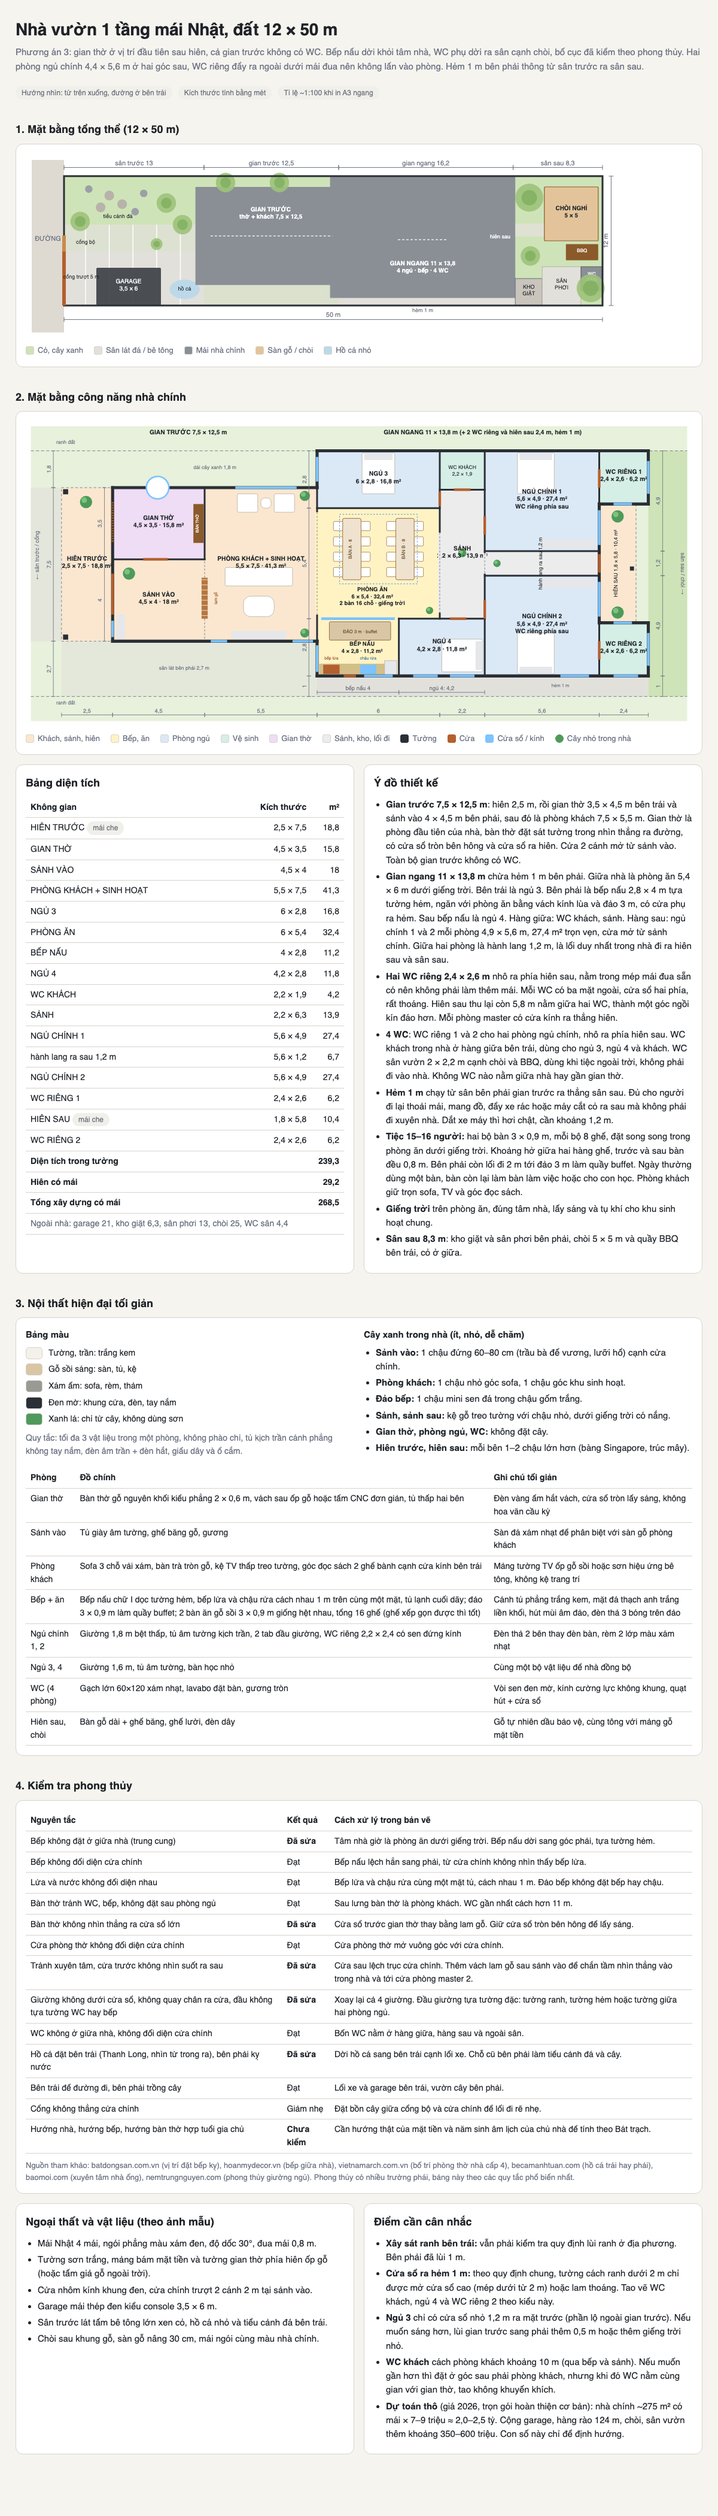
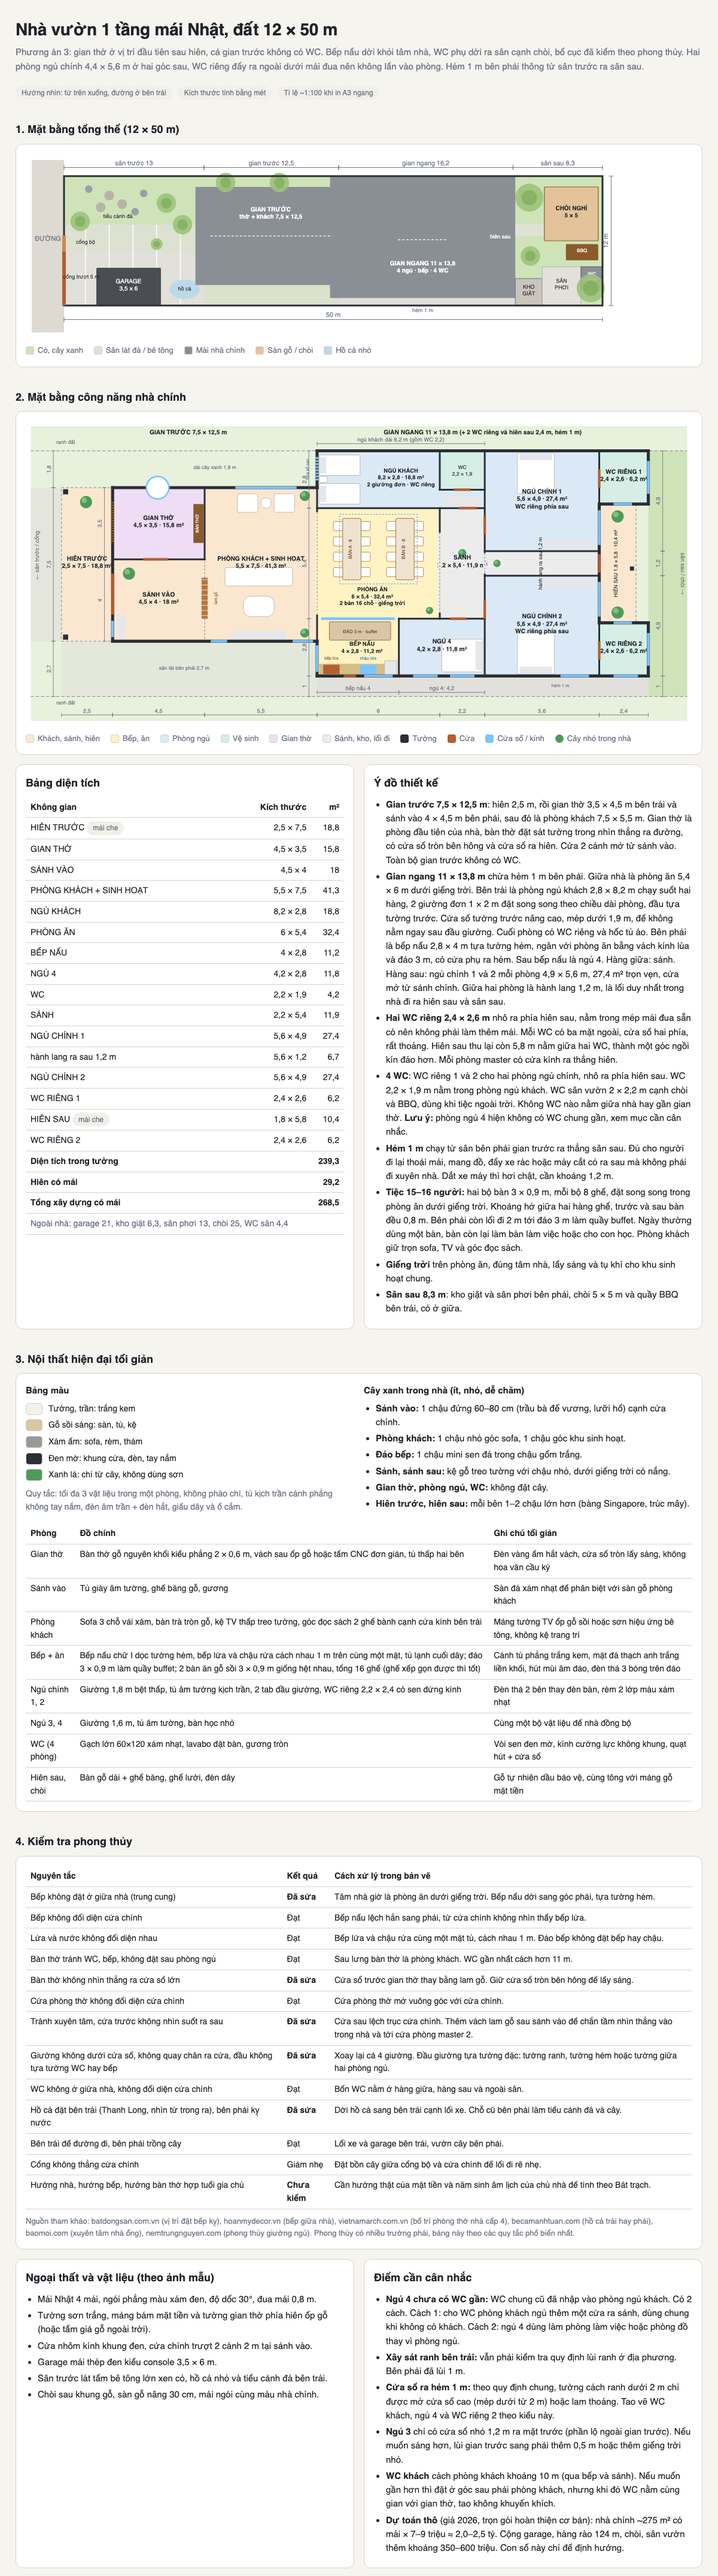
Phòng ngủ khách dài 8,2 m, 2 giường đơn, WC trong phòng

Changed region(s): [[0.0308, 0.0, 0.9558, 0.9981]]

diff --git a/mat-bang-nha-12x50.html b/mat-bang-nha-12x50.html
@@ -82,9 +82,9 @@
       <h2 style="margin-top:0">Ý đồ thiết kế</h2>
       <ul>
         <li><b>Gian trước 7,5 × 12,5 m</b>: hiên 2,5 m, rồi gian thờ 3,5 × 4,5 m bên trái và sảnh vào 4 × 4,5 m bên phải, sau đó là phòng khách 7,5 × 5,5 m. Gian thờ là phòng đầu tiên của nhà, bàn thờ đặt sát tường trong nhìn thẳng ra đường, có cửa sổ tròn bên hông và cửa sổ ra hiên. Cửa 2 cánh mở từ sảnh vào. Toàn bộ gian trước không có WC.</li>
-        <li><b>Gian ngang 11 × 13,8 m</b> chừa hẻm 1 m bên phải. Giữa nhà là phòng ăn 5,4 × 6 m dưới giếng trời. Bên trái là ngủ 3. Bên phải là bếp nấu 2,8 × 4 m tựa tường hẻm, ngăn với phòng ăn bằng vách kính lùa và đảo 3 m, có cửa phụ ra hẻm. Sau bếp nấu là ngủ 4. Hàng giữa: WC khách, sảnh. Hàng sau: ngủ chính 1 và 2 mỗi phòng 4,9 × 5,6 m, 27,4 m² trọn vẹn, cửa mở từ sảnh chính. Giữa hai phòng là hành lang 1,2 m, là lối duy nhất trong nhà đi ra hiên sau và sân sau.</li>
+        <li><b>Gian ngang 11 × 13,8 m</b> chừa hẻm 1 m bên phải. Giữa nhà là phòng ăn 5,4 × 6 m dưới giếng trời. Bên trái là phòng ngủ khách 2,8 × 8,2 m chạy suốt hai hàng, 2 giường đơn 1 × 2 m đặt song song theo chiều dài phòng, đầu tựa tường trước. Cửa sổ tường trước nâng cao, mép dưới 1,9 m, để không nằm ngay sau đầu giường. Cuối phòng có WC riêng và hốc tủ áo. Bên phải là bếp nấu 2,8 × 4 m tựa tường hẻm, ngăn với phòng ăn bằng vách kính lùa và đảo 3 m, có cửa phụ ra hẻm. Sau bếp nấu là ngủ 4. Hàng giữa: sảnh. Hàng sau: ngủ chính 1 và 2 mỗi phòng 4,9 × 5,6 m, 27,4 m² trọn vẹn, cửa mở từ sảnh chính. Giữa hai phòng là hành lang 1,2 m, là lối duy nhất trong nhà đi ra hiên sau và sân sau.</li>
         <li><b>Hai WC riêng 2,4 × 2,6 m</b> nhô ra phía hiên sau, nằm trong mép mái đua sẵn có nên không phải làm thêm mái. Mỗi WC có ba mặt ngoài, cửa sổ hai phía, rất thoáng. Hiên sau thu lại còn 5,8 m nằm giữa hai WC, thành một góc ngồi kín đáo hơn. Mỗi phòng master có cửa kính ra thẳng hiên.</li>
-        <li><b>4 WC</b>: WC riêng 1 và 2 cho hai phòng ngủ chính, nhô ra phía hiên sau. WC khách trong nhà ở hàng giữa bên trái, dùng cho ngủ 3, ngủ 4 và khách. WC sân vườn 2 × 2,2 m cạnh chòi và BBQ, dùng khi tiệc ngoài trời, không phải đi vào nhà. Không WC nào nằm giữa nhà hay gần gian thờ.</li>
+        <li><b>4 WC</b>: WC riêng 1 và 2 cho hai phòng ngủ chính, nhô ra phía hiên sau. WC 2,2 × 1,9 m nằm trong phòng ngủ khách. WC sân vườn 2 × 2,2 m cạnh chòi và BBQ, dùng khi tiệc ngoài trời. Không WC nào nằm giữa nhà hay gần gian thờ. <b>Lưu ý:</b> phòng ngủ 4 hiện không có WC chung gần, xem mục cần cân nhắc.</li>
         <li><b>Hẻm 1 m</b> chạy từ sân bên phải gian trước ra thẳng sân sau. Đủ cho người đi lại thoải mái, mang đồ, đẩy xe rác hoặc máy cắt cỏ ra sau mà không phải đi xuyên nhà. Dắt xe máy thì hơi chật, cần khoảng 1,2 m.</li>
         <li><b>Tiệc 15–16 người:</b> hai bộ bàn 3 × 0,9 m, mỗi bộ 8 ghế, đặt song song trong phòng ăn dưới giếng trời. Khoảng hở giữa hai hàng ghế, trước và sau bàn đều 0,8 m. Bên phải còn lối đi 2 m tới đảo 3 m làm quầy buffet. Ngày thường dùng một bàn, bàn còn lại làm bàn làm việc hoặc cho con học. Phòng khách giữ trọn sofa, TV và góc đọc sách.</li>
         <li><b>Giếng trời</b> trên phòng ăn, đúng tâm nhà, lấy sáng và tụ khí cho khu sinh hoạt chung.</li>
@@ -172,6 +172,7 @@
     <div class="card">
       <h2 style="margin-top:0">Điểm cần cân nhắc</h2>
       <ul>
+        <li><b>Ngủ 4 chưa có WC gần:</b> WC chung cũ đã nhập vào phòng ngủ khách. Có 2 cách. Cách 1: cho WC phòng khách ngủ thêm một cửa ra sảnh, dùng chung khi không có khách. Cách 2: ngủ 4 dùng làm phòng làm việc hoặc phòng đồ thay vì phòng ngủ.</li>
         <li><b>Xây sát ranh bên trái:</b> vẫn phải kiểm tra quy định lùi ranh ở địa phương. Bên phải đã lùi 1 m.</li>
         <li><b>Cửa sổ ra hẻm 1 m:</b> theo quy định chung, tường cách ranh dưới 2 m chỉ được mở cửa sổ cao (mép dưới từ 2 m) hoặc lam thoáng. Tao vẽ WC khách, ngủ 4 và WC riêng 2 theo kiểu này.</li>
         <li><b>Ngủ 3</b> chỉ có cửa sổ nhỏ 1,2 m ra mặt trước (phần lộ ngoài gian trước). Nếu muốn sáng hơn, lùi gian trước sang phải thêm 0,5 m hoặc thêm giếng trời nhỏ.</li>
@@ -269,12 +270,12 @@ const rooms=[
   {n:'GIAN THỜ',d:[15.5,20],w:[1.8,5.3],f:'--c-worship'},
   {n:'SẢNH VÀO',d:[15.5,20],w:[5.3,9.3],f:'--c-living'},
   {n:'PHÒNG KHÁCH + SINH HOẠT',d:[20,25.5],w:[1.8,9.3],f:'--c-living'},
-  {n:'NGỦ 3',d:[25.5,31.5],w:[0,2.8],f:'--c-bed'},
+  {n:'NGỦ KHÁCH',d:[25.5,33.7],w:[0,2.8],f:'--c-bed',minus:4.18,sub:'2 giường đơn · WC riêng',lp:[29.6,1.4]},
   {n:'PHÒNG ĂN',d:[25.5,31.5],w:[2.8,8.2],f:'--c-kitchen',sub:'2 bàn 16 chỗ · giếng trời',lp:[28.2,7.2]},
   {n:'BẾP NẤU',d:[25.5,29.5],w:[8.2,11.0],f:'--c-kitchen',lp:[27.7,9.7]},
   {n:'NGỦ 4',d:[29.5,33.7],w:[8.2,11.0],f:'--c-bed'},
-  {n:'WC KHÁCH',d:[31.5,33.7],w:[0,1.9],f:'--c-wet',small:true,sub2:'2,2 × 1,9'},
-  {n:'SẢNH',d:[31.5,33.7],w:[1.9,8.2],f:'--c-hall'},
+  {n:'WC',d:[31.5,33.7],w:[0,1.9],f:'--c-wet',small:true,sub2:'2,2 × 1,9'},
+  {n:'SẢNH',d:[31.5,33.7],w:[2.8,8.2],f:'--c-hall'},
   {n:'NGỦ CHÍNH 1',d:[33.7,39.3],w:[0,4.9],f:'--c-bed',sub:'WC riêng phía sau'},
   {n:'hành lang ra sau 1,2 m',d:[33.7,39.3],w:[4.9,6.1],f:'--c-hall',small:true,vert:true},
   {n:'NGỦ CHÍNH 2',d:[33.7,39.3],w:[6.1,11.0],f:'--c-bed',sub:'WC riêng phía sau'},
@@ -317,8 +318,8 @@ const rooms=[
   rect(g,m,27.6,28.4,10.45,10.9,{fill:'#7cc4ff'}); label(g,m,28.0,10.2,'chậu rửa',{size:8,fill:'#1d5f8a'});
   rect(g,m,28.8,29.4,10.25,10.95,{fill:'#e5e7eb',stroke:'#b8b3a8'}); 
   rect(g,m,26.1,29.1,8.35,9.25,{fill:'#d9c6a5',stroke:'#8b5a2b','stroke-width':1,rx:2}); label(g,m,27.6,8.9,'ĐẢO 3 m · buffet',{size:9,fill:'#5b3a1a'});
-  function bed(d1,d2,w1,w2,head){rect(g,m,d1,d2,w1,w2,F); const h=0.35; if(head==='w0')rect(g,m,d1+0.1,d2-0.1,w1,w1+h,{fill:'#e5e7eb',rx:2}); if(head==='w1')rect(g,m,d1+0.1,d2-0.1,w2-h,w2,{fill:'#e5e7eb',rx:2}); if(head==='d1')rect(g,m,d2-h,d2,w1+0.1,w2-0.1,{fill:'#e5e7eb',rx:2});}
-  bed(27.7,29.3,0.1,2.1,'w0'); bed(31.6,33.6,9.2,10.8,'d1'); bed(35.3,37.1,0.1,2.1,'w0'); bed(35.3,37.1,8.9,10.9,'w1');
+  function bed(d1,d2,w1,w2,head){rect(g,m,d1,d2,w1,w2,F); const h=0.35; if(head==='w0')rect(g,m,d1+0.1,d2-0.1,w1,w1+h,{fill:'#e5e7eb',rx:2}); if(head==='w1')rect(g,m,d1+0.1,d2-0.1,w2-h,w2,{fill:'#e5e7eb',rx:2}); if(head==='d1')rect(g,m,d2-h,d2,w1+0.1,w2-0.1,{fill:'#e5e7eb',rx:2}); if(head==='ds')rect(g,m,d1,d1+h,w1+0.1,w2-0.1,{fill:'#e5e7eb',rx:2});}
+  bed(25.6,27.6,0.2,1.2,'ds'); bed(25.6,27.6,1.6,2.6,'ds'); rect(g,m,25.6,26.0,1.25,1.55,F); rect(g,m,31.7,33.5,2.2,2.7,{fill:'#e5e7eb',rx:2}); bed(31.6,33.6,9.2,10.8,'d1'); bed(35.3,37.1,0.1,2.1,'w0'); bed(35.3,37.1,8.9,10.9,'w1');
   rect(g,m,36.4,39.1,4.3,4.8,{fill:'#e5e7eb',rx:2}); rect(g,m,36.4,39.1,6.2,6.7,{fill:'#e5e7eb',rx:2}); // tủ áo
   function plant(d,w,r){const cx=m.x(d),cy=m.y(w),R=(r||0.3)*m.S; el('circle',{cx,cy,r:R,fill:'#4f9a5a'},g); el('circle',{cx:cx-R*.3,cy:cy-R*.3,r:R*.45,fill:'#7cc27f'},g);}
   plant(14.2,2.5,0.3); plant(16.3,6.0,0.3); plant(24.9,2.2,0.25); plant(24.9,8.9,0.22); plant(31.0,7.8,0.18); plant(32.6,5.0,0.2); plant(34.3,5.5,0.18); plant(40.2,3.2,0.3); plant(40.2,7.9,0.3);
@@ -345,8 +346,8 @@ const rooms=[
   wall(39.3,2.6,41.7,2.6); wall(41.7,0,41.7,2.6); wall(39.3,8.4,41.7,8.4); wall(41.7,8.4,41.7,11.0);
   wall(15.5,5.3,20,5.3,ti); wall(20,1.8,20,5.3,ti);
   wall(25.5,1.8,25.5,9.3,ti);
-  wall(25.5,2.8,31.5,2.8,ti); wall(29.5,8.2,33.7,8.2,ti); wall(29.5,8.2,29.5,11.0,ti);
-  wall(31.5,0,31.5,8.2,ti);
+  wall(25.5,2.8,33.7,2.8,ti); wall(29.5,8.2,33.7,8.2,ti); wall(29.5,8.2,29.5,11.0,ti);
+  wall(31.5,0,31.5,1.9,ti); wall(31.5,2.8,31.5,8.2,ti);
   wall(31.5,1.9,33.7,1.9,ti);
   wall(33.7,0,33.7,11.0,ti);
   wall(33.7,4.9,39.3,4.9,ti); wall(33.7,6.1,39.3,6.1,ti);
@@ -363,7 +364,7 @@ const rooms=[
   opening(33.7,5.0,33.7,6.0,css('--c-hall'));
   door(15.5,6.0,15.5,8.0);
   door(17,5.3,18.2,5.3);
-  door(31.5,2.0,31.5,2.7); door(32.0,8.2,32.8,8.2);   // ngủ 3, ngủ 4
+  door(32.4,2.8,33.3,2.8); door(32.0,8.2,32.8,8.2);   // ngủ khách, ngủ 4
   door(26.8,11.0,27.4,11.0);                                 // cửa phụ bếp ra hẻm
   win(25.7,8.2,29.3,8.2);                                    // vách kính lùa bếp nấu
   door(32.2,1.9,33.0,1.9);
@@ -375,7 +376,7 @@ const rooms=[
   label(g,m,20.6,7.2,'lam gỗ',{size:8,fill:'#8b5a2b',rot:-90});
   el('circle',{cx:m.x(17.7),cy:m.y(1.8),r:.55*m.S,fill:'#fff',stroke:'#7cc4ff','stroke-width':3},g);
   win(20.3,9.3,21.1,9.3); win(24.3,9.3,25.3,9.3); win(21.5,1.8,24.5,1.8);
-  win(25.5,0.3,25.5,1.5); win(25.5,9.5,25.5,10.8);
+  el('line',{x1:m.x(25.5),y1:m.y(0.3),x2:m.x(25.5),y2:m.y(1.5),stroke:'#7cc4ff','stroke-width':5,'stroke-dasharray':'4 2'},g); label(g,m,25.1,0.9,'cửa sổ cao',{size:8,fill:'#1d5f8a',rot:-90}); win(25.5,9.5,25.5,10.8);
   win(27.8,11.0,29.2,11.0); win(30.2,11.0,31.4,11.0); win(32,11.0,33.2,11.0); win(37.4,11.0,38.8,11.0); win(40.0,11.0,41.2,11.0);
   win(41.7,0.5,41.7,2.1); win(41.7,8.9,41.7,10.5); win(40.0,2.6,40.9,2.6); win(40.0,8.4,40.9,8.4);   // cửa sổ WC riêng
   win(39.3,2.9,39.3,4.6); win(39.3,6.4,39.3,8.1);   // cửa kính master ra hiên
@@ -387,7 +388,7 @@ const rooms=[
   dim(g,m,13,15.5,12.9,'2,5'); dim(g,m,15.5,20,12.9,'4,5'); dim(g,m,20,25.5,12.9,'5,5'); dim(g,m,25.5,31.5,12.9,'6'); dim(g,m,31.5,33.7,12.9,'2,2'); dim(g,m,33.7,39.3,12.9,'5,6'); dim(g,m,39.3,41.7,12.9,'2,4');
   dimV(g,m,0,2.8,25.1,'2,8'); dimV(g,m,2.8,8.2,25.1,'5,4'); dimV(g,m,8.2,11.0,25.1,'2,8'); dimV(g,m,11.0,12,25.1,'1');
   dimV(g,m,0,1.8,12.6,'1,8'); dimV(g,m,1.8,9.3,12.6,'7,5'); dimV(g,m,9.3,12,12.6,'2,7');
-  dim(g,m,25.5,29.5,11.8,'bếp nấu 4'); dim(g,m,29.5,33.7,11.8,'ngủ 4: 4,2');
+  dim(g,m,25.5,33.7,-0.35,'ngủ khách dài 8,2 m (gồm WC 2,2)'); dim(g,m,25.5,29.5,11.8,'bếp nấu 4'); dim(g,m,29.5,33.7,11.8,'ngủ 4: 4,2');
   label(g,m,20.5,0.9,'dải cây xanh 1,8 m',{size:10,fill:css('--muted')}); label(g,m,19,10.7,'sân lát bên phải 2,7 m',{size:10,fill:css('--muted')});
   dimV(g,m,0,4.9,42.4,'4,9'); dimV(g,m,4.9,6.1,42.4,'1,2'); dimV(g,m,6.1,11.0,42.4,'4,9'); dimV(g,m,11.0,12,42.4,'1');
   dimV(g,m,1.8,5.3,15.1,'3,5'); dimV(g,m,5.3,9.3,15.1,'4');

diff --git a/3d-nha-12x50.html b/3d-nha-12x50.html
@@ -183,7 +183,7 @@ box(39.3-T,39.3,2.6,8.4,0,H,M.wall,house);
 box(39.3,41.7,2.6-T,2.6,0,H,M.wall,house); box(41.7-T,41.7,0,2.6,0,H,M.wall,house); box(39.3,41.7,8.4,8.4+T,0,H,M.wall,house); box(41.7-T,41.7,8.4,11.0,0,H,M.wall,house);
 function win(d,w1,w2,y0=0.9,y1=2.4){box(d-0.03,d+0.03,w1,w2,y0,y1,M.glass,house,false);box(d-0.04,d+0.04,w1,w1+0.05,y0,y1,M.black,house,false);box(d-0.04,d+0.04,w2-0.05,w2,y0,y1,M.black,house,false);}
 function winZ(w,d1,d2,y0=2.0,y1=2.7){box(d1,d2,w-0.03,w+0.03,y0,y1,M.glass,house,false);}
-win(25.5,0.3,1.5); win(25.5,9.5,10.8);
+win(25.5,0.3,1.5,1.9+0.15,2.6+0.15); win(25.5,9.5,10.8);
 winZ(11.0,27,29); winZ(11.0,32,33.2); winZ(11.0,37.4,38.8); winZ(11.0,40,41.2);            // cửa sổ cao ra hẻm
 win(41.7,0.5,2.1,1.6,2.5); win(41.7,8.9,10.5,1.6,2.5); win(39.3,2.9,4.6,0.2,2.5); win(39.3,6.4,8.1,0.2,2.5);
 box(39.3-0.02,39.3+0.02,5.05,5.95,0,2.3,M.wood,house,false);
@@ -193,9 +193,9 @@ const inner=new THREE.Group(); house.add(inner); const IH=3.2, TI=0.12;
 function iw(d1,w1,d2,w2){ if(d1===d2) box(d1-TI/2,d1+TI/2,Math.min(w1,w2),Math.max(w1,w2),0,IH,M.inner,inner); else box(Math.min(d1,d2),Math.max(d1,d2),w1-TI/2,w1+TI/2,0,IH,M.inner,inner); }
 iw(15.5,5.3,17,5.3); iw(18.2,5.3,20,5.3); iw(20,1.8,20,5.3);
 iw(25.5,1.8,25.5,3.0); iw(25.5,8.0,25.5,9.3);
-iw(25.5,2.8,31.5,2.8); iw(29.5,8.2,32.0,8.2); iw(32.8,8.2,33.7,8.2); iw(29.5,8.2,29.5,11.0);
+iw(25.5,2.8,32.4,2.8); iw(33.3,2.8,33.7,2.8); iw(29.5,8.2,32.0,8.2); iw(32.8,8.2,33.7,8.2); iw(29.5,8.2,29.5,11.0);
 box(25.7,29.3,8.17,8.23,0.15,IH,M.glass,inner,false);
-iw(31.5,0,31.5,2.0); iw(31.5,2.7,31.5,4.0); iw(31.5,7.9,31.5,8.2);
+iw(31.5,0,31.5,1.9); iw(31.5,2.8,31.5,4.0); iw(31.5,7.9,31.5,8.2);
 iw(31.5,1.9,32.2,1.9); iw(33.0,1.9,33.7,1.9);
 iw(33.7,0,33.7,3.2); iw(33.7,4.1,33.7,5.0); iw(33.7,6.0,33.7,7.3); iw(33.7,8.2,33.7,11.0);
 iw(33.7,4.9,39.3,4.9); iw(33.7,6.1,39.3,6.1);
@@ -203,7 +203,7 @@ iw(39.3,0,39.3,0.9); iw(39.3,1.8,39.3,2.6); iw(39.3,8.4,39.3,9.3); iw(39.3,10.2,
 // interior hints
 box(19.45,19.95,2.6,4.5,0.15,1.0,M.wood,inner);                 // bàn thờ
 box(25.6,29.4,10.4,10.95,0.15,1.0,M.wood,inner); box(26.1,29.1,8.35,9.25,0.15,1.0,M.deck,inner); box(26.75,27.65,3.3,6.3,0.7,0.78,M.wood,inner); box(29.35,30.25,3.3,6.3,0.7,0.78,M.wood,inner);
-[[27.7,29.3,0.1,2.1],[31.6,33.6,9.2,10.8],[35.3,37.1,0.1,2.1],[35.3,37.1,8.9,10.9]].forEach(([a,b,c,d])=>box(a,b,c,d,0.15,0.55,M.white,inner));
+[[25.6,27.6,0.2,1.2],[25.6,27.6,1.6,2.6],[31.6,33.6,9.2,10.8],[35.3,37.1,0.1,2.1],[35.3,37.1,8.9,10.9]].forEach(([a,b,c,d])=>box(a,b,c,d,0.15,0.55,M.white,inner));
 box(19.85,20.15,6.2,8.2,0.15,2.4,M.wood,inner);   // lam gỗ bình phong
 box(21.0,24.3,5.7,6.6,0.15,0.75,new THREE.MeshStandardMaterial({color:0x9a9a94}),inner);
 
@@ -236,7 +236,7 @@ function makeLabel(text,d,w,y,size=1.1,grp=labels){
   const t=new THREE.CanvasTexture(c); t.colorSpace=THREE.SRGBColorSpace;
   const sp=new THREE.Sprite(new THREE.SpriteMaterial({map:t,depthTest:false,transparent:true})); sp.scale.set(size*4,size,1); sp.position.set(d,y,w); grp.add(sp);
 }
-[['Gian thờ',17.7,3.5],['Sảnh vào',17.7,7.3],['Phòng khách',22.7,5.5],['Hiên',14.2,5.5],['Ngủ 3',28.5,1.6],['Phòng ăn',27,5.2],['Bếp nấu',27.5,9.7],['Ngủ 4',31.6,9.6],['Sảnh',32.6,5.5],['Ngủ chính 1',36.5,2.1],['Ngủ chính 2',36.5,8.9],['WC riêng',40.5,1.3],['WC riêng',40.5,9.7],['Hành lang',36.5,5.5],['WC khách',32.6,0.95],['Hiên sau',40.2,5.5]].forEach(([t,d,w])=>makeLabel(t,d,w,3.4,0.8));
+[['Gian thờ',17.7,3.5],['Sảnh vào',17.7,7.3],['Phòng khách',22.7,5.5],['Hiên',14.2,5.5],['Ngủ khách',28.5,1.6],['Phòng ăn',27,5.2],['Bếp nấu',27.5,9.7],['Ngủ 4',31.6,9.6],['Sảnh',32.6,5.5],['Ngủ chính 1',36.5,2.1],['Ngủ chính 2',36.5,8.9],['WC riêng',40.5,1.3],['WC riêng',40.5,9.7],['Hành lang',36.5,5.5],['WC',32.6,0.95],['Hiên sau',40.2,5.5]].forEach(([t,d,w])=>makeLabel(t,d,w,3.4,0.8));
 [['Garage',6,10.2],['Chòi nghỉ',47.1,3.5],['Sân phơi',46.2,10.2],['Kho giặt',43.1,10.7],['Hẻm 1 m',33.3,11.5],['WC sân',49,9.5],['Hồ cá',11.2,10.5]].forEach(([t,d,w])=>makeLabel(t,d,w,4.2,0.8,outLabels));
 labels.visible=false;
 

diff --git a/BOI-CANH-DU-AN.md b/BOI-CANH-DU-AN.md
@@ -14,8 +14,8 @@
 - Sân trước 13 m: cổng, garage bên trái (nhìn từ trong ra), hồ cá bên trái cạnh lối xe, tiểu cảnh đá bên phải.
 - Gian trước 7,5 x 12,5 m: hiên 2,5; gian thờ 4,5 x 3,5 (phòng đầu tiên) + sảnh vào 4,5 x 4; lam gỗ bình phong; phòng khách 5,5 x 7,5.
 - Gian ngang 11 x 13,8 m, hẻm 1 m bên phải thông ra sân sau.
-  - Hàng trước: ngủ 3 (2,8 m) | phòng ăn 5,4 x 6 ở tâm nhà, giếng trời, 2 bàn 8 chỗ | bếp nấu 2,8 x 4 tựa tường hẻm + đảo buffet 3 m.
-  - Hàng giữa: WC khách | sảnh | ngủ 4 (2,8 x 4,2).
+  - Hàng trước: ngủ khách 2,8 x 8,2 chạy suốt 2 hàng, 2 giường đơn, WC trong phòng | phòng ăn 5,4 x 6 ở tâm nhà, giếng trời, 2 bàn 8 chỗ | bếp nấu 2,8 x 4 tựa tường hẻm + đảo buffet 3 m.
+  - Hàng giữa: sảnh | ngủ 4 (2,8 x 4,2).
   - Hàng sau: ngủ chính 1 và 2 (4,9 x 5,6) | hành lang 1,2 m ra hiên sau.
   - 2 WC riêng 2,4 x 2,6 nhô ra sau dưới mái đua, hiên sau 5,8 m ở giữa.
 - Sân sau 8,3 m: kho giặt, sân phơi, chòi 5 x 5 + BBQ, WC sân vườn cạnh chòi.
